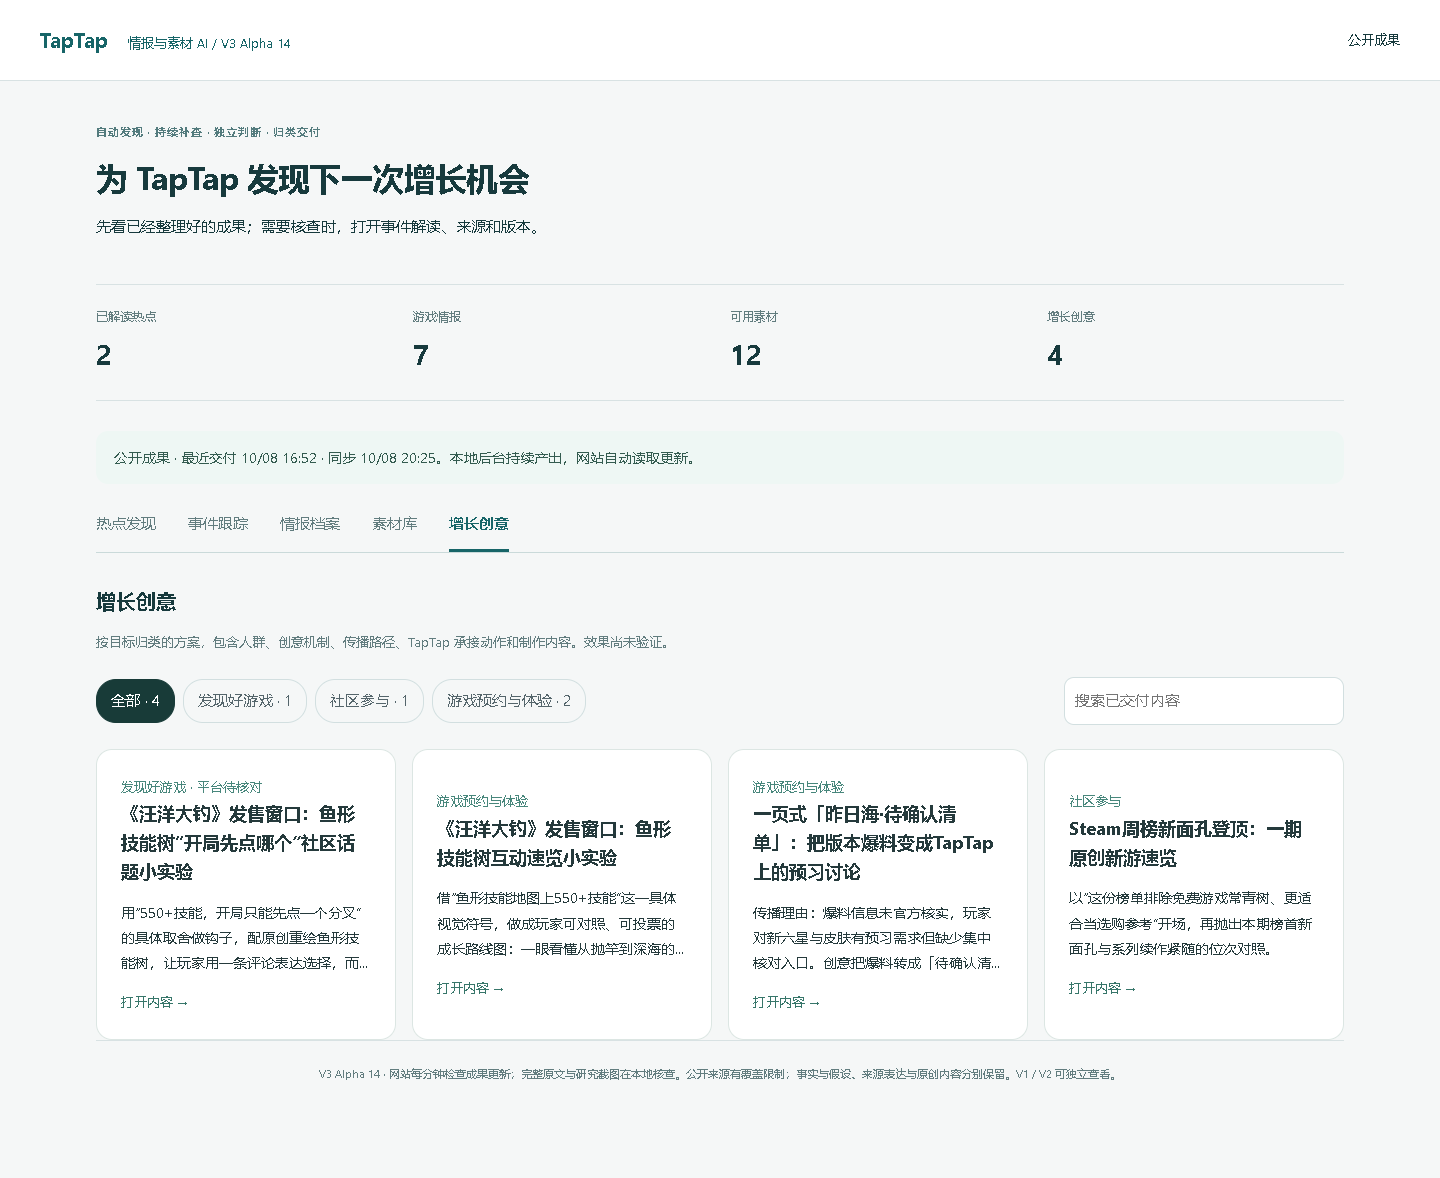
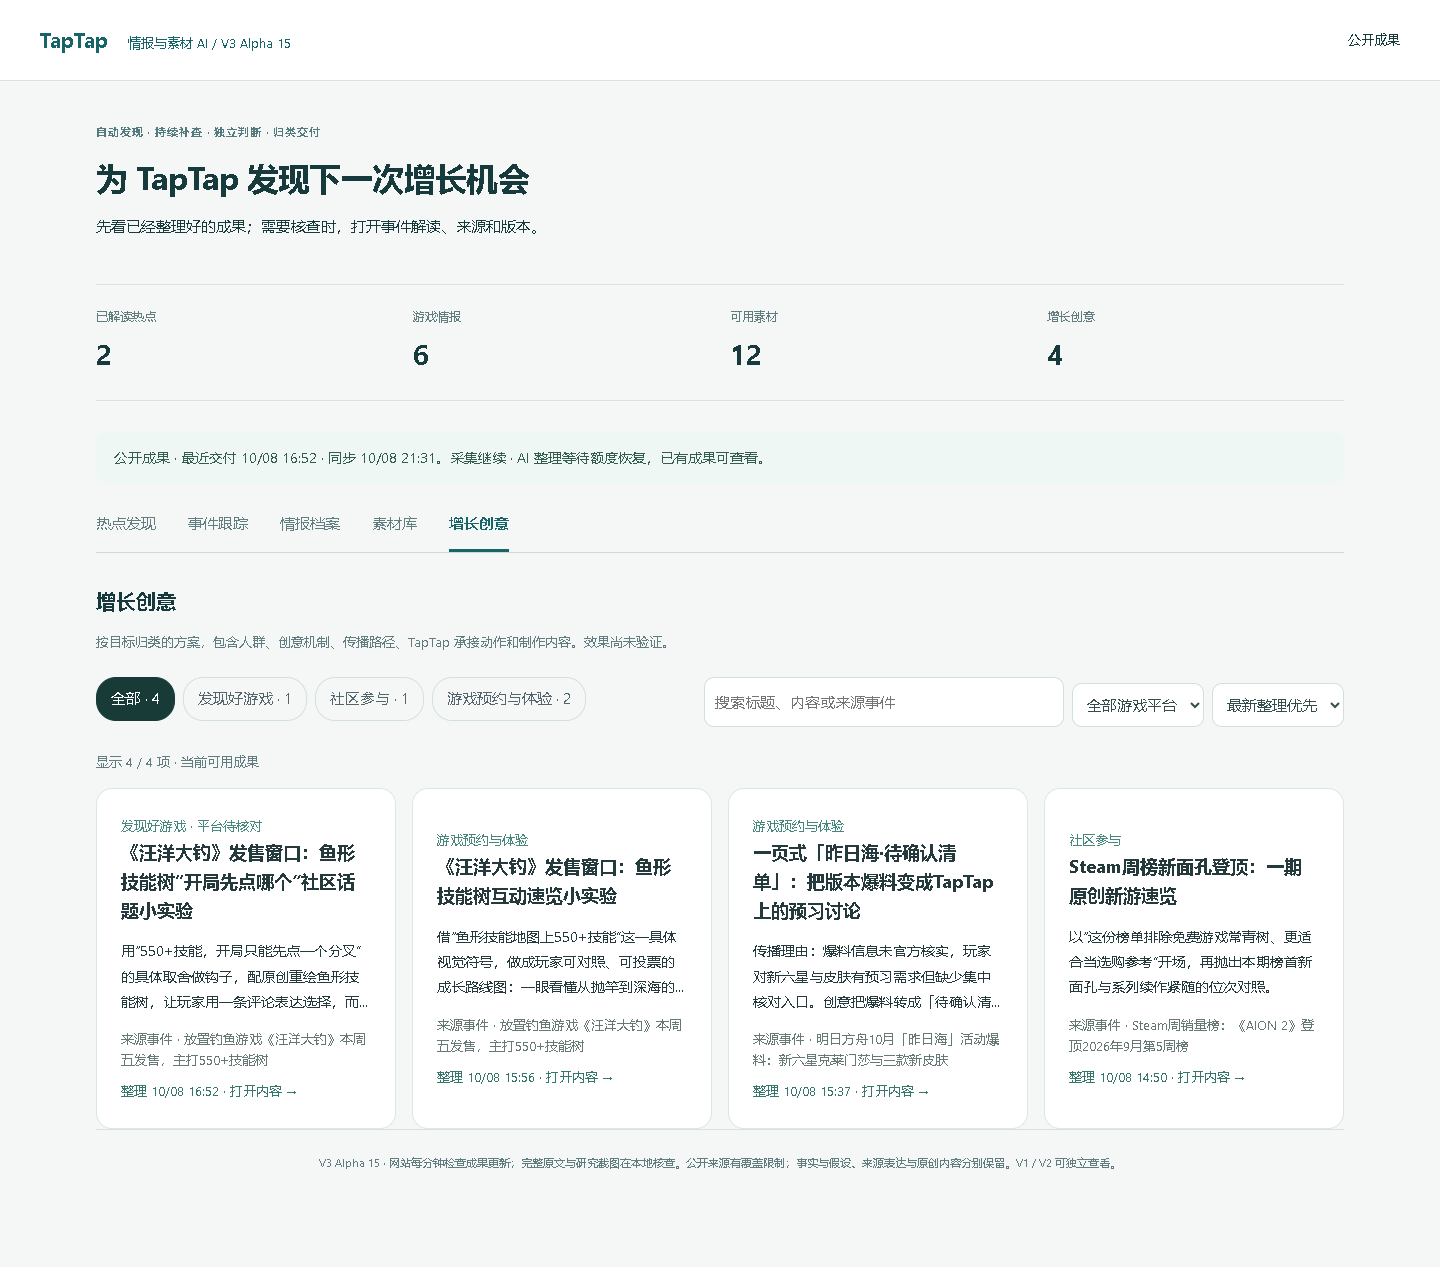
docs(v3): record Alpha 15 deployment and recovery checks

diff --git a/docs/版本记录.md b/docs/版本记录.md
@@ -8,9 +8,11 @@
 
 用户确认DeepSeek额度不足，设置持久供应商暂停；重启、别名切换和旧退避到期不会解除暂停。采集与成果同步继续，本地及公开页如实显示等待额度。本轮没有请求付费模型，也没有新增真实AI成果；使用已有真实档案与隔离测试模型验证。
 
[2 lines of base64/hex data omitted]
 
 实际迁移与重复扫描已保存2077个内容/观测状态；现用4条创意保留，普通观测未重复生成。该时点统计本轮付费模型运行0条。原始创意依据版本缺失时也禁止以当前事件判断替代。
+
[1 lines of base64/hex data omitted]
 
 ## V3 — 3.0.0-alpha.14 / 2026-10-08
 

diff --git a/docs/V3-GitHub部署与成果同步.md b/docs/V3-GitHub部署与成果同步.md
@@ -25,3 +25,5 @@ GitHub Pages 负责网站展示，[不运行 Python 服务](https://docs.github.
 358项后端回归通过，包含8项公开导出与发布测试；TypeScript 检查与678模块生产构建通过。用真实数据分支及线上网站验证五个入口、热点详情、素材正文、情报与创意详情、机会溯源和来源链接；没有登录请求、后台 API 请求或生产 POST；桌面及390px移动端无页面异常和横向溢出。Pages构建部署、后台两次自动同步及全部CI检查通过，隔离恢复检查通过。提交号、快照摘要与验证记录见[版本记录](版本记录.md)。
 
 当前公开产出仍为可执行草案，尚未验证实际增长效果。全网覆盖、事件聚类质量、评论可用率和候选积压仍需继续改善；部署成功不代表业务目标全部验收完成。
+
+Alpha15补充：公开页显示额度暂停状态，首次读取失败自动重连；新增来源索引、逐创意原始版本溯源与复制/Markdown下载。真实线上浏览器复验通过，0后台API/生产POST，桌面与390px布局正常。新增交付/额度检查进入372项后端回归，CI与Pages均通过。
